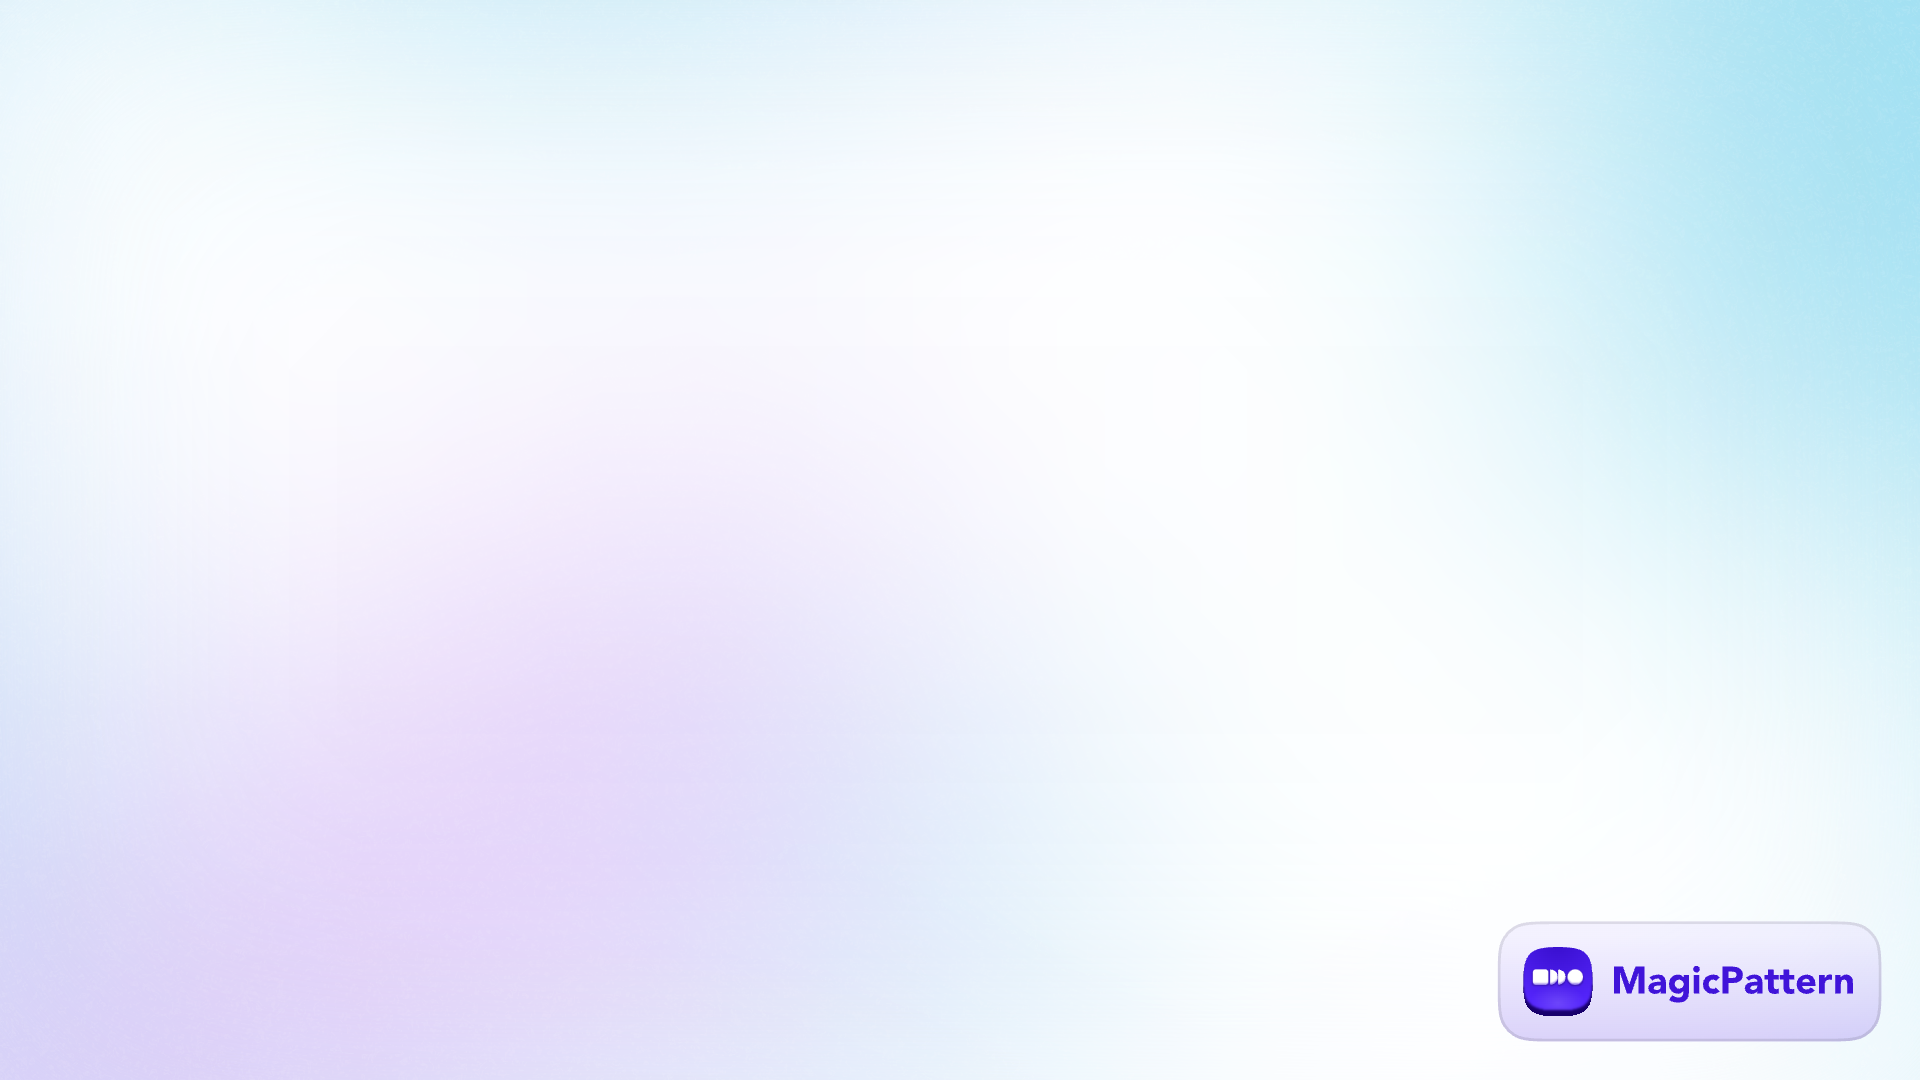
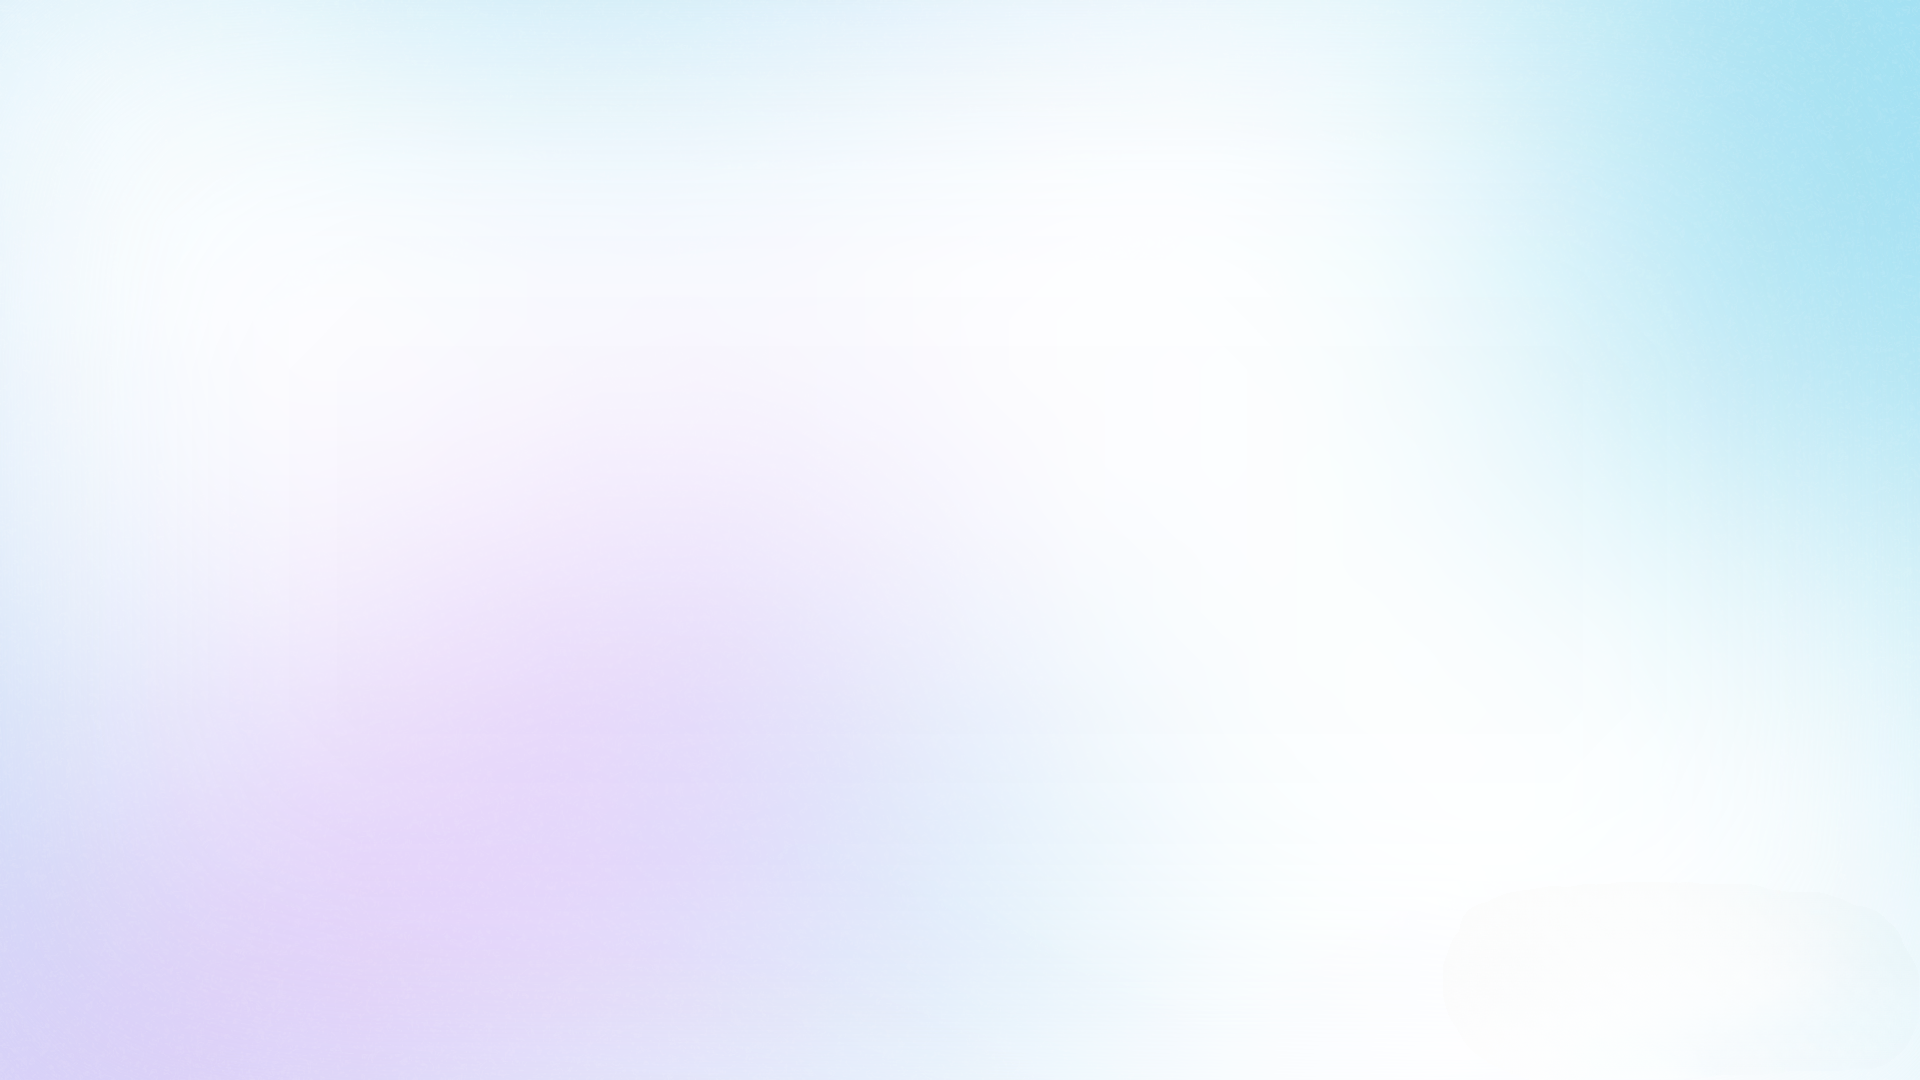
background fixes

Changed region(s): [[0.7812, 0.8556, 1.0, 0.9778]]

diff --git a/src/styles/FakeCard.scss b/src/styles/FakeCard.scss
@@ -122,9 +122,10 @@
     top: 0;
     left: 0;
     background-image: url(../images/gradient_5.png);
+    background-size: cover;
     z-index: 10000;
     animation: showup 0.3s ease forwards;
-    opacity: 0;
+    // opacity: 0;
 }
 
 .closing {
